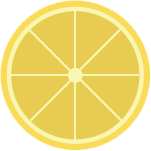
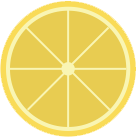
水果贴图补齐 f6~f10（fruits.png 新版 11 个全切）
- 切图脚本按两行布局：上排小→大=f0~f6，下排大→小=f10~f7，合成链不再回退 emoji
- collectstatic 后需重启 waitress：whitenoise 进程内索引在启动时建立，新文件不重启 404（已记入 CLAUDE.md）

diff --git a/CLAUDE.md b/CLAUDE.md
@@ -5,8 +5,10 @@
 
 > **改名史**：心情树洞 → 念今心（07-26）→ **心履**（07-27）。品牌资产 `D:\moodsite\logo.png`
 > （无底，网页 UI 用）/ `logo.jpg`（有底，客户端图标用）/ `fruits.png`（大西瓜游戏贴图）。
-> 网页端 logo/favicon 在 `static/images/`，水果贴图在 `static/images/fruits/`（f0~f5 已切好，
-> f6~f10 留位：补图放进去游戏自动生效，缺图回退 emoji）。改图后必须 `collectstatic`。
+> 网页端 logo/favicon 在 `static/images/`，水果贴图在 `static/images/fruits/`（f0~f10 十一张
+> 已齐，由 fruits.png 按两行布局切分：上排小→大=f0~f6，下排大→小=f10~f7；缺图时游戏回退
+> emoji）。改图后必须 `collectstatic`；**新增静态文件还要重启 waitress**（whitenoise 进程内
+> 索引在启动时建立，新文件不重启 404）。
 
 ## 1. 项目概述
 
